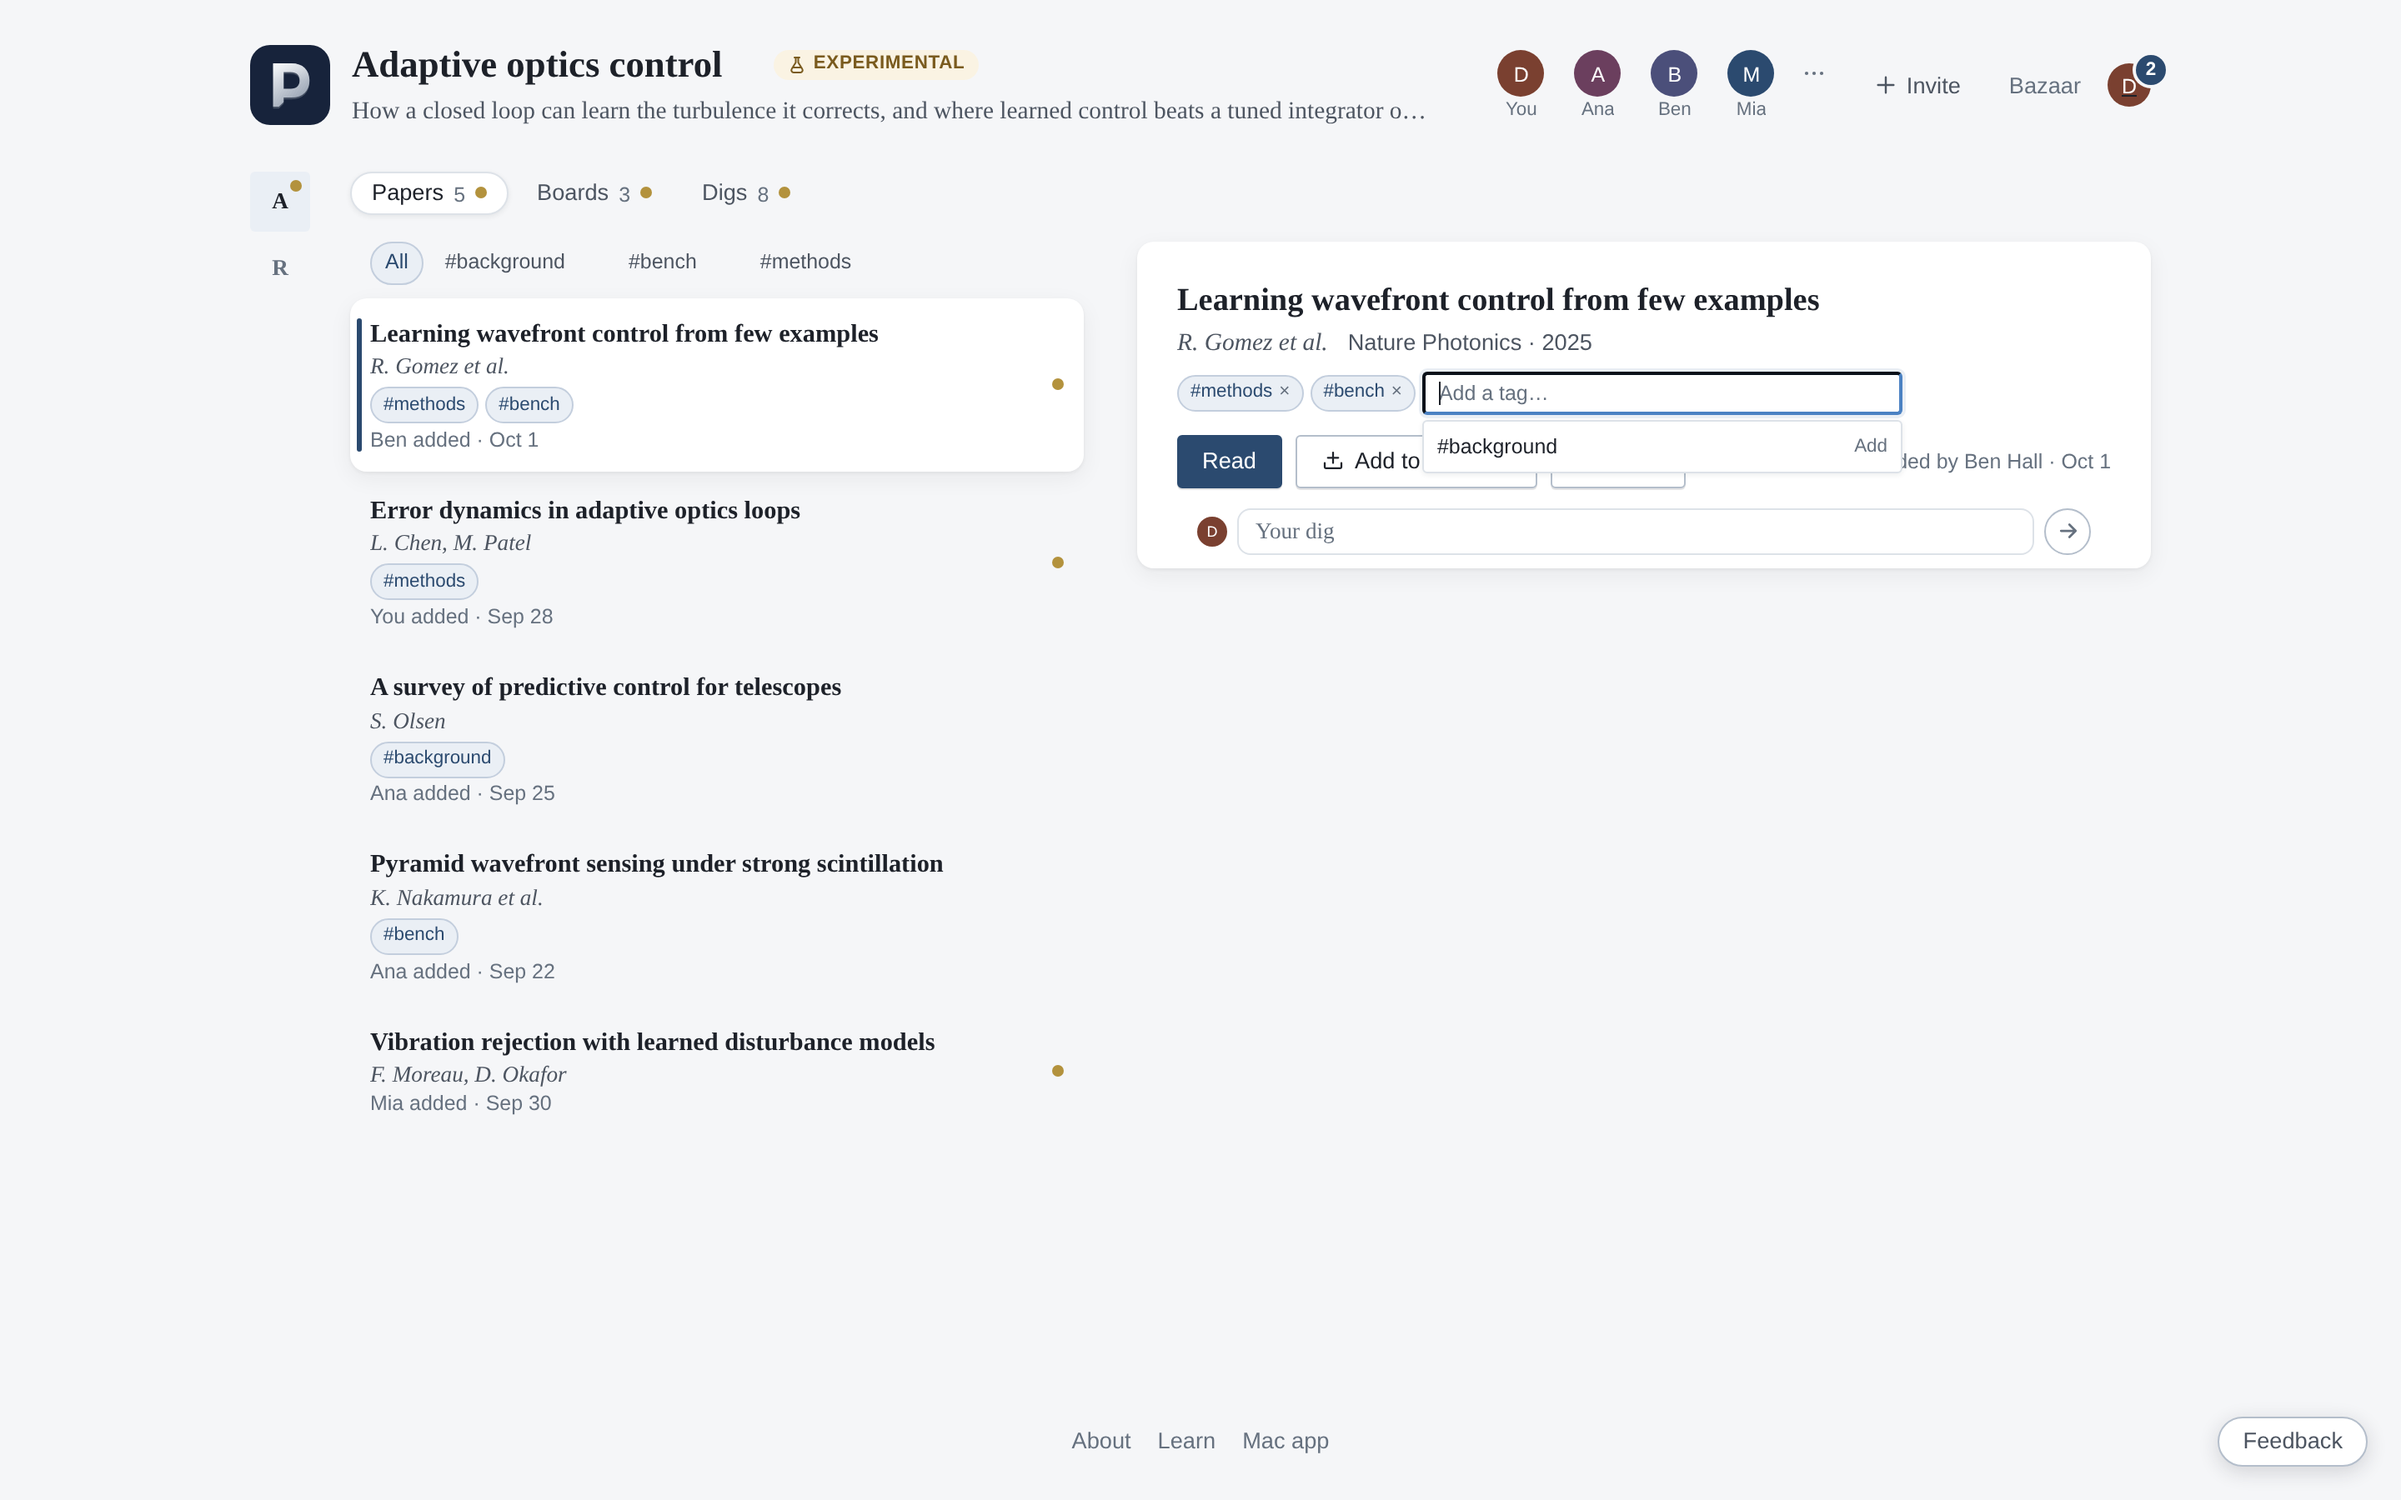
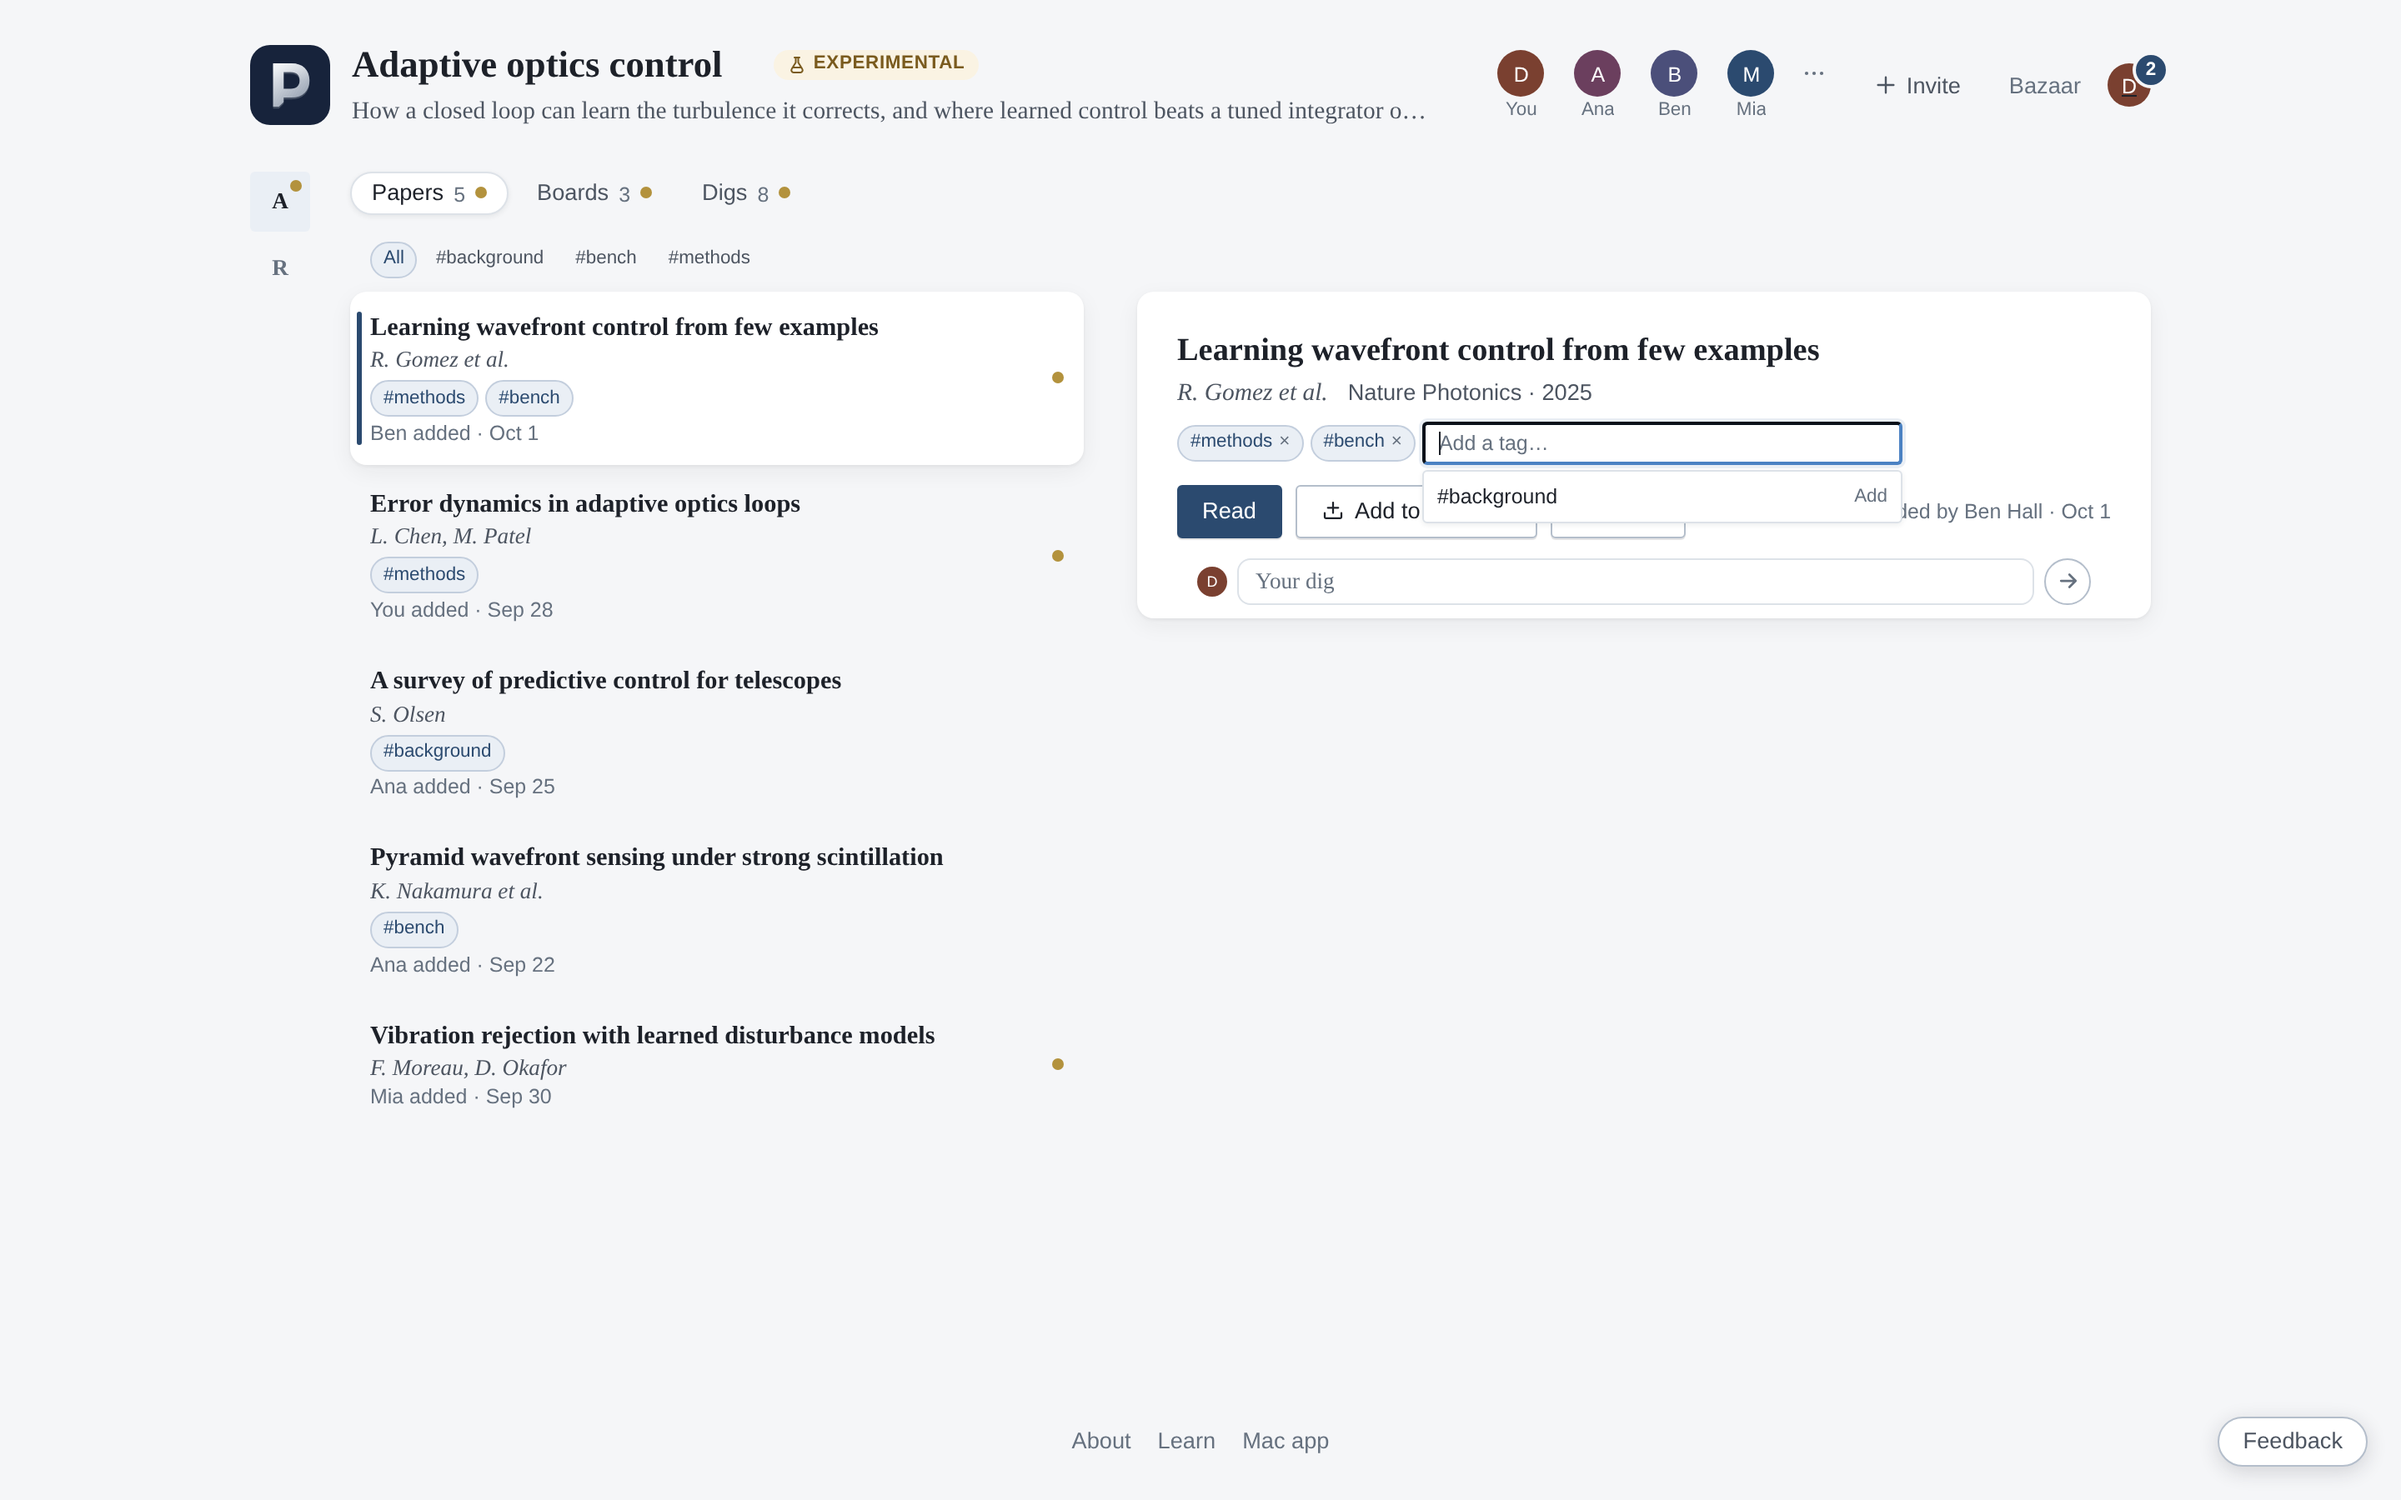
Place project tag filters above papers

diff --git a/shared/applicationStyles.js b/shared/applicationStyles.js
@@ -5231,16 +5231,11 @@ button.project-quiet.project-danger:hover:not(:disabled) { background: var(--red
 .project-row-facts { display: contents; }
 .project-row .project-card-added { margin: 0; padding: 0; white-space: nowrap; }
 .project-row-end { display: inline-flex; align-items: center; justify-content: flex-end; gap: var(--space-2); }
-.project-tag-filters { display: flex; flex-wrap: wrap; align-items: center; gap: var(--space-1); margin: 0 0 var(--space-2); padding: 0 var(--space-3); }
-.project-tag-filters > button, .project-tag-filter > button { min-height: 26px; padding: 2px 8px; border: 1px solid transparent; border-radius: var(--radius-pill); background: transparent; box-shadow: none; color: var(--ink-soft); font: 500 var(--fs-xs) var(--font-ui); }
+.project-tag-filters { display: flex; flex-wrap: wrap; align-items: center; gap: 3px; margin: 0 0 var(--space-2); padding: 0 var(--space-3); }
+.project-tag-filters > button { min-height: 22px; padding: 1px 7px; border: 1px solid transparent; border-radius: var(--radius-pill); background: transparent; box-shadow: none; color: var(--ink-soft); font: 500 var(--fs-2xs) var(--font-ui); }
 .project-tag-filters button:hover, .project-tag-filters button:focus-visible { border-color: var(--line); background: var(--card); color: var(--accent); }
 .project-tag-filters button.is-on { border-color: var(--accent-line); background: var(--accent-soft); color: var(--accent); }
-.project-tag-filter { display: inline-flex; align-items: center; border-radius: var(--radius-pill); }
-.project-tag-filter > .project-tag-delete { width: 22px; min-height: 22px; margin-left: -6px; padding: 0; color: var(--ink-faint); opacity: 0; transition: opacity var(--motion-fast) var(--ease-out); }
-.project-tag-filter:hover > .project-tag-delete, .project-tag-filter:focus-within > .project-tag-delete { opacity: 1; }
-.project-tag-filter > .project-tag-delete:hover, .project-tag-filter > .project-tag-delete:focus-visible { border-color: transparent; background: var(--red-soft); color: var(--red); }
 .project-tags-none { margin: var(--space-5) var(--space-3); color: var(--ink-faint); font: var(--fs-sm) var(--font-ui); }
-.project-tag-filter-error { margin: 0 var(--space-3) var(--space-2); color: var(--red); font: var(--fs-xs) var(--font-ui); }
 .project-paper-tags { display: flex; flex-wrap: wrap; align-items: center; gap: 4px; margin-top: 4px; font-family: var(--font-ui); }
 .project-paper-tag-list { display: inline-flex; flex-wrap: wrap; align-items: center; gap: 4px; margin-top: 4px; }
 .project-paper-tags > .project-paper-tag-list { margin-top: 0; }
@@ -5262,9 +5257,6 @@ button.project-paper-tag.is-removable:hover:not(:disabled), button.project-paper
 .project-tag-options .project-tag-create { color: var(--accent); }
 .project-tag-error { flex-basis: 100%; color: var(--red); font: var(--fs-2xs) var(--font-ui); }
 .paper-brief-tags .project-paper-tags { margin-top: var(--space-1); }
-@media (hover: none) {
-  .project-tag-filter > .project-tag-delete { opacity: 1; }
-}
 @container (max-width: 1099px) {
   .project-row { grid-template-columns: minmax(0, 1fr) auto; grid-template-areas: 'text end' 'facts end'; row-gap: 2px; column-gap: var(--space-3); }
   /* The facts share one line and one left edge whatever a row lacks. */
@@ -5351,7 +5343,10 @@ ${talkStyles}
 
 /* The Papers tab: the list, and the picked paper's brief beside it on a
    wide window, laid out as the Digs tab lays out a dig. */
-.project-papers-view.is-wide { display: grid; grid-template-columns: minmax(340px, 440px) minmax(420px, 1fr); column-gap: var(--space-6); align-items: start; }
+.project-papers-view.is-wide { display: grid; grid-template-columns: minmax(340px, 440px) minmax(420px, 1fr); grid-template-areas: 'filters filters' 'list panel'; column-gap: var(--space-6); align-items: start; }
+.project-papers-view.is-wide > .project-tag-filters { grid-area: filters; }
+.project-papers-view.is-wide > .project-papers-list { grid-area: list; }
+.project-papers-view.is-wide > .project-papers-panel { grid-area: panel; }
 .project-papers-list { min-width: 0; }
 /* The list reads its own width, so its rows fold as they do on a phone. */
 .project-papers-view.is-wide .project-papers { container-type: inline-size; }

diff --git a/frontend/src/components/ProjectPage.jsx b/frontend/src/components/ProjectPage.jsx
@@ -6,7 +6,7 @@ import { PHASES, PhaseGlyph, DigThread, phaseRank, when } from '../../../shared/
 import NewsDot from '../../../shared/ui/NewsDot.jsx';
 import { confirmAction } from '../../../shared/confirmAction';
 import {
-  addMember, addProjectPaperTag, annotationViewerPath, createProjectBoard, createProjectTag, deleteProjectTag,
+  addMember, addProjectPaperTag, annotationViewerPath, createProjectBoard, createProjectTag,
   findPeople, getProject, invitationPath, openInvitation, removeMember, removeProjectPaperTag,
   describeProject, renameProject, revokeInvitation, setKeeper,
 } from '../../../shared/api/projects.js';
@@ -589,7 +589,6 @@ function ProjectPapers({ project, currentUser, hasNews, picked, onPick, onChange
   const isMe = (user) => user.uuid === currentUser?.uuid;
   const wide = useWide();
   const [tag, setTag] = useState(null);
-  const [tagError, setTagError] = useState(null);
   const papers = tag ? project.papers.filter((paper) => paper.tags?.some((item) => item.uuid === tag)) : project.papers;
   // Beside the list there is always a brief: the one picked, else the first
   // new paper, else the top one. Under a row it is only the one picked.
@@ -618,37 +617,18 @@ function ProjectPapers({ project, currentUser, hasNews, picked, onPick, onChange
   };
   return (
     <section className={`project-section project-papers-view${wide ? ' is-wide' : ''}`} aria-label="Papers">
+      {(project.tags ?? []).length > 0 && (
+        <div className="project-tag-filters" aria-label="Filter papers by project tag">
+          <button type="button" className={!tag ? 'is-on' : ''} aria-pressed={!tag} onClick={() => setTag(null)}>All</button>
+          {(project.tags ?? []).map((item) => (
+            <button
+              type="button" key={item.uuid} className={tag === item.uuid ? 'is-on' : ''} aria-pressed={tag === item.uuid}
+              onClick={() => setTag(tag === item.uuid ? null : item.uuid)}
+            >#{item.name}</button>
+          ))}
+        </div>
+      )}
       <div className="project-papers-list">
-        {(project.tags ?? []).length > 0 && (
-          <div className="project-tag-filters" aria-label="Filter papers by project tag">
-            <button type="button" className={!tag ? 'is-on' : ''} aria-pressed={!tag} onClick={() => setTag(null)}>All</button>
-            {(project.tags ?? []).map((item) => (
-              <span className="project-tag-filter" key={item.uuid}>
-                <button
-                  type="button" className={tag === item.uuid ? 'is-on' : ''} aria-pressed={tag === item.uuid}
-                  onClick={() => setTag(tag === item.uuid ? null : item.uuid)}
-                >#{item.name}</button>
-                {project.is_keeper && (
-                  <button
-                    type="button" className="project-tag-delete" aria-label={`Delete project tag ${item.name}`}
-                    onClick={async () => {
-                      if (!await confirmAction(`Delete “${item.name}” from this project and every paper?`, { confirmLabel: 'Delete tag', destructive: true })) return;
-                      setTagError(null);
-                      try {
-                        await deleteProjectTag(project.uuid, item.uuid);
-                        if (tag === item.uuid) setTag(null);
-                        onChanged();
-                      } catch (err) {
-                        setTagError(err.message);
-                      }
-                    }}
-                  >×</button>
-                )}
-              </span>
-            ))}
-          </div>
-        )}
-        {tagError && <p className="project-tag-filter-error" role="alert">{tagError}</p>}
         {papers.length === 0 && <p className="project-tags-none">No papers have this tag.</p>}
         <ul className="project-papers project-rows" onKeyDown={wide ? move : undefined}>
         {papers.map((paper) => {

diff --git a/frontend/src/projectTags.test.js b/frontend/src/projectTags.test.js
@@ -28,9 +28,8 @@ test('paper rows show tags while editing belongs to the open brief', () => {
   assert.match(brief, /{tags && <div className="paper-brief-tags">{tags}<\/div>}/);
 });
 
-test('the shared vocabulary filters papers and only a keeper can delete from it', () => {
+test('the shared vocabulary filters papers without deleting tags from the papers view', () => {
   assert.match(papers, /project\.papers\.filter\(\(paper\) => paper\.tags\?\.some\(\(item\) => item\.uuid === tag\)\)/);
   assert.match(papers, /aria-label="Filter papers by project tag"/);
-  assert.match(papers, /project\.is_keeper && \(/);
-  assert.match(papers, /deleteProjectTag\(project\.uuid, item\.uuid\)/);
+  assert.doesNotMatch(papers, /deleteProjectTag|project-tag-delete/);
 });
